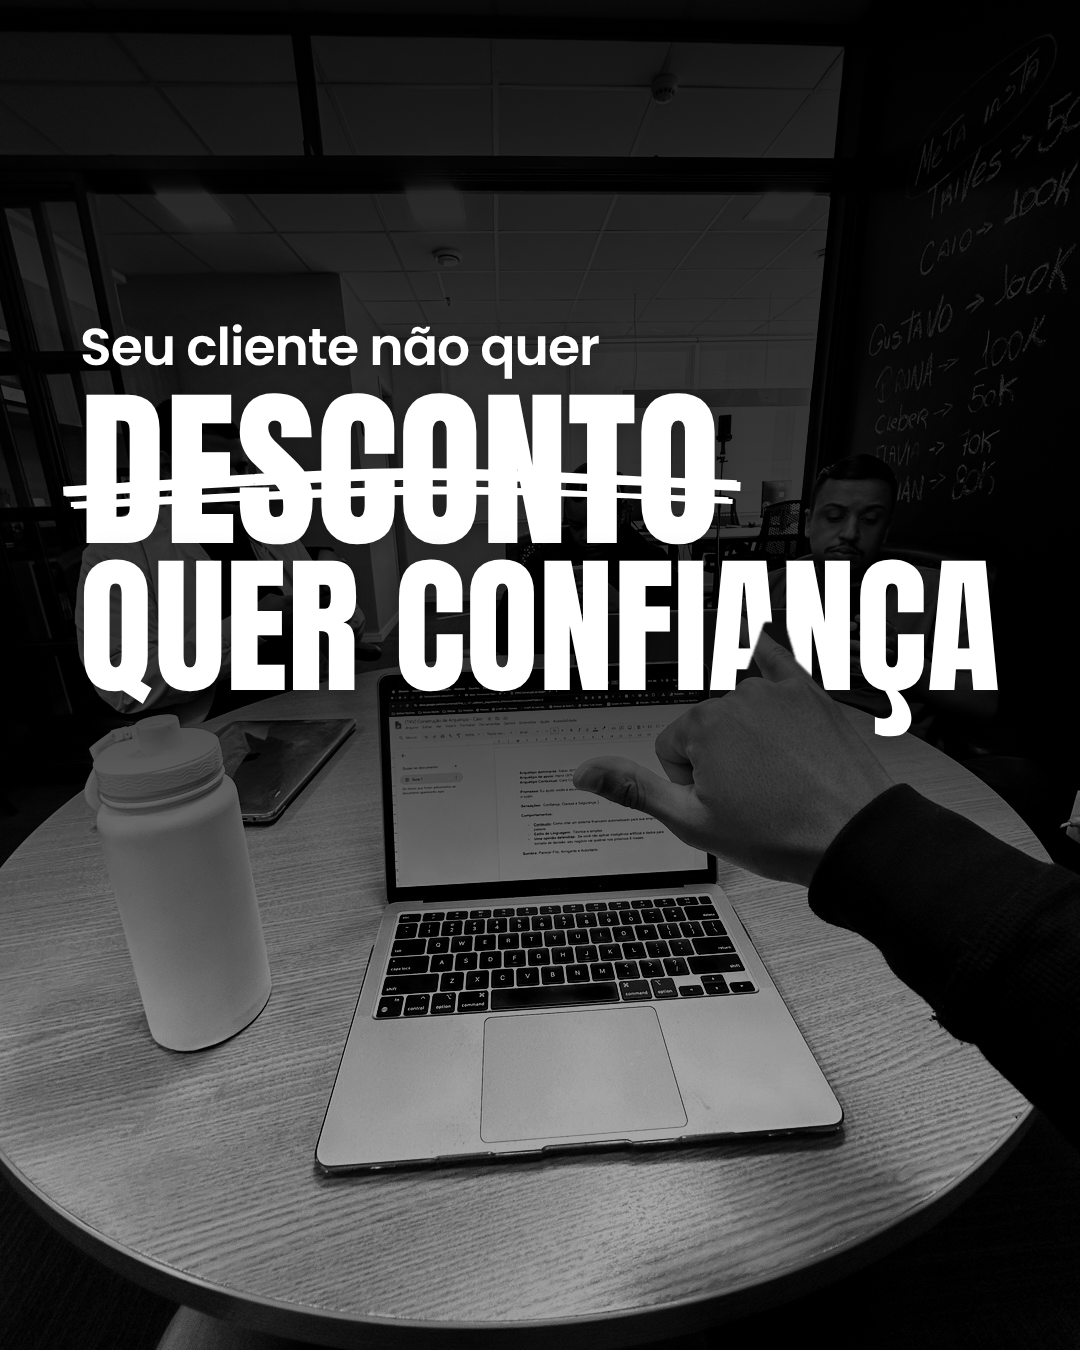
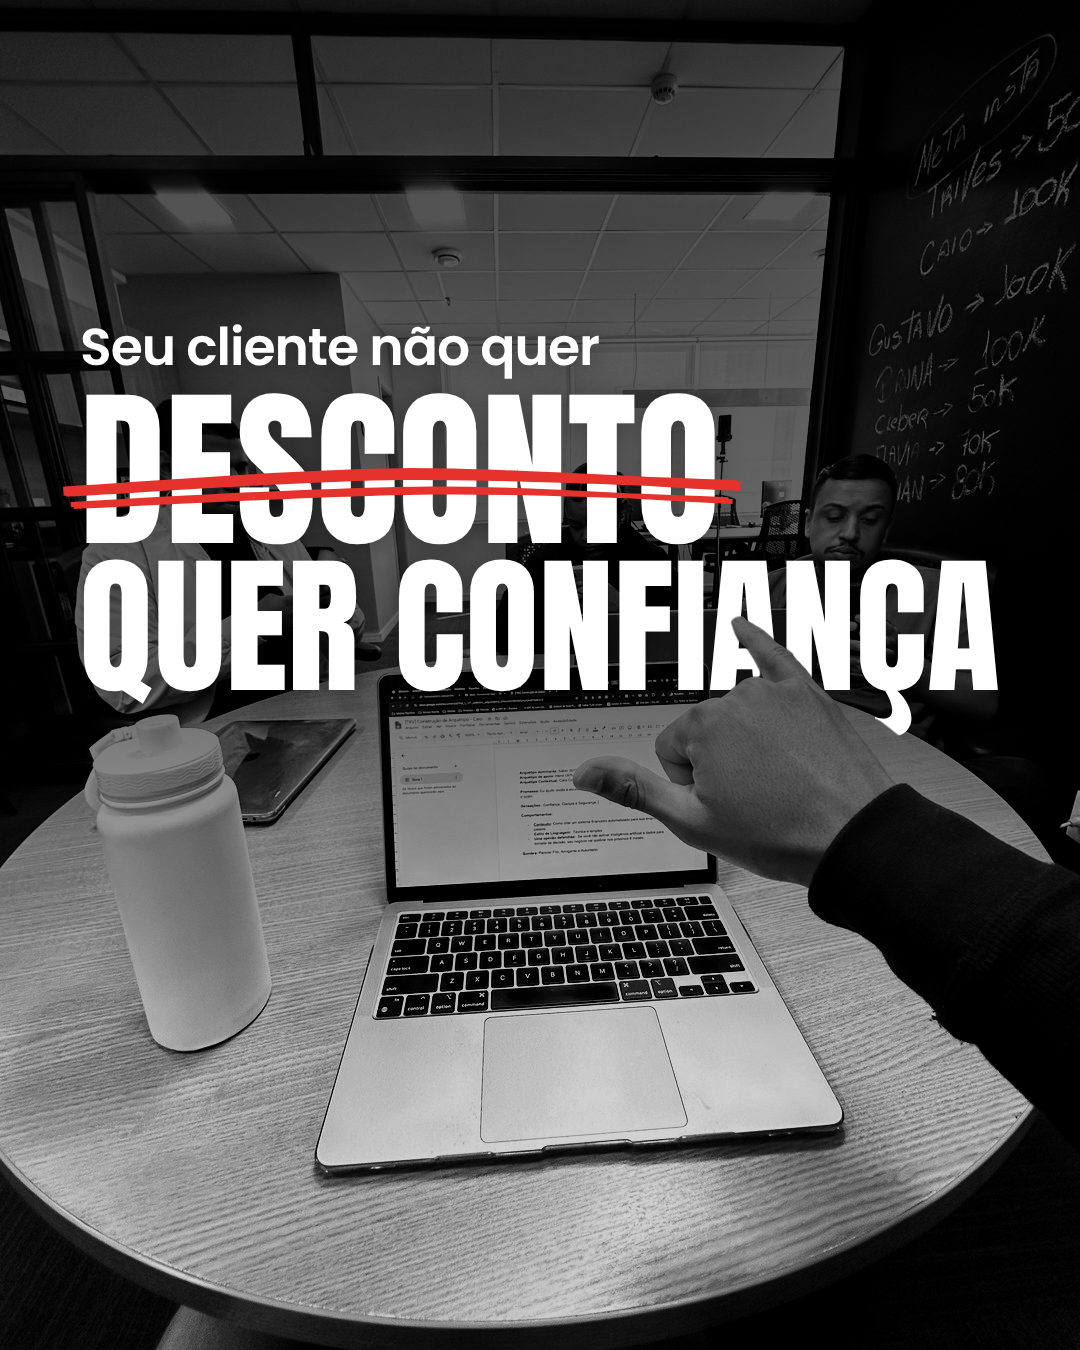
Capa 04-A: recorte em alta resolução (dedo nítido), risco vermelho, máscara mais leve
Claude-Session: https://claude.ai/code/session_01CR2zLXebwu2nvAjBiSDjK9

diff --git a/carrossel/capa-motor.html b/carrossel/capa-motor.html
@@ -121,15 +121,15 @@ window.loadCapa = async function(spec){
   // risco à mão
   els.forEach(({d,cfg,t},i)=>{ if(!cfg.strike) return; const r=d.getBoundingClientRect(); const fs=parseFloat(d.style.fontSize);
     const y=pos[i].base-fs*.36, rc=rough.svg(document.getElementById("sv")), sv=document.getElementById("sv");
-    sv.appendChild(rc.curve([[r.left-14,y+10],[r.left+r.width*.5,y-6],[r.right+18,y+4]],{stroke:"#fff",strokeWidth:9,roughness:1.4,seed:4}));
-    sv.appendChild(rc.curve([[r.left-6,y+26],[r.left+r.width*.55,y+10],[r.right+10,y+20]],{stroke:"#fff",strokeWidth:5,roughness:1.6,seed:9})); });
+    sv.appendChild(rc.curve([[r.left-14,y+10],[r.left+r.width*.5,y-6],[r.right+18,y+4]],{stroke:spec.cor_risco||"#fff",strokeWidth:9,roughness:1.4,seed:4}));
+    sv.appendChild(rc.curve([[r.left-6,y+26],[r.left+r.width*.55,y+10],[r.right+10,y+20]],{stroke:spec.cor_risco||"#fff",strokeWidth:5,roughness:1.6,seed:9})); });
   // FADE: degradê preto do topo até um pouco abaixo do título (também escurece o recorte da pessoa)
   if(spec.fade!==false){
     const tops=pos.filter(Boolean).map(p=>p.top), bots=pos.filter(Boolean).map(p=>p.bottom);
-    const fim=Math.min(1350, Math.max(...bots)+(spec.fade_extra??300)), meio=Math.max(...bots)-40, forca=spec.fade_forca??.82;
+    const fim=Math.min(1350, Math.max(...bots)+(spec.fade_extra??300)), meio=Math.max(...bots)-40, forca=spec.fade_forca??.66;
     const stops=[[0,forca],[Math.max(0,meio)/1350,forca*.72],[fim/1350,0]];
     const css=`linear-gradient(180deg,${stops.map(([p,a])=>`rgba(0,0,0,${a.toFixed(3)}) ${(p*100).toFixed(1)}%`).join(",")})`;
-    const mk=spec.mascara??.35;
+    const mk=spec.mascara??.18;
     document.getElementById("shade").style.background=`${css},linear-gradient(rgba(0,0,0,${mk}),rgba(0,0,0,${mk}))`;
     const pimg=document.getElementById("pessoa");
     if(pimg && pimg.isConnected && pimg.src){ await (pimg.decode?pimg.decode().catch(()=>0):0);

diff --git a/carrossel/recorte.py b/carrossel/recorte.py
@@ -22,7 +22,7 @@ Preto e branco com pretos profundos (rode DEPOIS do recorte; converte foto.jpg e
 
 Aceita .heic (iPhone) se `pillow-heif` estiver instalado (pip install pillow-heif).
 """
-import sys, numpy as np
+import sys, json, numpy as np
 from pathlib import Path
 from PIL import Image, ImageDraw, ImageFilter, ImageOps
 try:
@@ -43,6 +43,7 @@ def enquadrar(foto, pasta, y0=None):
     else:
         w = round(H * .8); x0 = (W - w) // 2; box = (x0, 0, x0 + w, H)
     im = src.crop(box).resize((1080, 1350), Image.LANCZOS); im.save(pasta / "foto.jpg", quality=93)
+    (pasta / "meta.json").write_text(json.dumps({"orig": str(Path(foto).resolve()), "box": list(box)}))
     g = im.copy(); d = ImageDraw.Draw(g)
     for x in range(0, 1080, 100): d.line([(x, 0), (x, 1350)], fill=(255, 0, 0), width=2); d.text((x + 4, 4), str(x), fill=(255, 0, 0))
     for y in range(0, 1350, 100): d.line([(0, y), (1080, y)], fill=(255, 0, 0), width=2); d.text((4, y + 4), str(y), fill=(255, 0, 0))
@@ -50,31 +51,45 @@ def enquadrar(foto, pasta, y0=None):
     print(f"ok → {pasta}/foto.jpg e {pasta}/grade.jpg (grade reduzida pela metade: multiplique as leituras por 2)")
 
 def pessoa(pasta, pontos, ate=800, modo="cor"):
+    """Recorte em alta resolução (foto original) e reduzido no fim → bordas nítidas."""
     pasta = Path(pasta); im = Image.open(pasta / "foto.jpg").convert("RGB")
-    poly = [tuple(map(float, p.split(","))) for p in pontos.split()]
-    P = Image.new("L", im.size, 0); ImageDraw.Draw(P).polygon(poly, fill=255); P = np.asarray(P) > 0
-    h, s, v = hsv(im); yy = np.arange(im.size[1])[:, None] * np.ones((1, im.size[0]))
+    k, hi = 1.0, im
+    meta = pasta / "meta.json"
+    if meta.exists():
+        m_ = json.loads(meta.read_text())
+        try:
+            hi = ImageOps.exif_transpose(Image.open(m_["orig"])).convert("RGB").crop(tuple(m_["box"])); k = hi.size[0] / 1080
+        except Exception:
+            hi, k = im, 1.0
+    poly = [tuple(float(c) * k for c in p.split(",")) for p in pontos.split()]
+    P = Image.new("L", hi.size, 0); ImageDraw.Draw(P).polygon(poly, fill=255); P = np.asarray(P) > 0
+    h, s, v = hsv(hi); yy = np.arange(hi.size[1])[:, None] * np.ones((1, hi.size[0])); A = ate * k
+    def fechar(b, r=21):
+        r = int(r * k) | 1
+        x = Image.fromarray((b * 255).astype(np.uint8)).filter(ImageFilter.MaxFilter(r)).filter(ImageFilter.MinFilter(r))
+        return np.asarray(x) > 127
+    def abrir(b, r=3):
+        r = int(r * k) | 1
+        x = Image.fromarray((b * 255).astype(np.uint8)).filter(ImageFilter.MinFilter(r)).filter(ImageFilter.MaxFilter(r))
+        return np.asarray(x) > 127
     ceu = (h > 195) & (h < 235) & (s > .35)
-    folha = (h > 55) & (h < 125) & (s > .45) & (v > .42)
-    telhado = (h > 100) & (h < 170) & (s > .25)
-    neblina = (v > .60) & (s < .42) & (yy < ate)
-    def fechar(b, k=21):
-        im = Image.fromarray((b * 255).astype(np.uint8)).filter(ImageFilter.MaxFilter(k)).filter(ImageFilter.MinFilter(k))
-        return np.asarray(im) > 127
     if modo == "poligono": m = P
-    elif modo == "escuro": m = P & (fechar(v < .42, 45) | (yy >= ate))
+    elif modo == "escuro": m = P & (fechar(v < .42, 45) | (yy >= A))
     elif modo == "pele":
-        manga = mangay if (mangay := globals().get("MANGA_Y")) else ate
-        pele = ((h < 50) & (s > .18) & (v > .22)) | ((v < .30) & (yy >= manga))
-        m = P & (fechar(pele, 15) | (yy >= ate))
-    else: m = P & ~ceu & ~((folha | telhado | neblina) & (yy < ate))
-    mi = Image.fromarray((m * 255).astype(np.uint8)).filter(ImageFilter.MedianFilter(5))
-    mi = mi.filter(ImageFilter.MaxFilter(3)).filter(ImageFilter.MinFilter(3)).filter(ImageFilter.GaussianBlur(1))
+        manga = globals().get("MANGA_Y") or ate
+        pele = ((h < 50) & (s > .15) & (v > .42)) | ((v < .30) & (yy >= manga * k))
+        m = P & (fechar(abrir(pele, 3), 5) | (yy >= A))
+    else:
+        folha = (h > 55) & (h < 125) & (s > .45) & (v > .42); telhado = (h > 100) & (h < 170) & (s > .25)
+        neblina = (v > .60) & (s < .42) & (yy < A)
+        m = P & ~ceu & ~((folha | telhado | neblina) & (yy < A))
+    mi = Image.fromarray((m * 255).astype(np.uint8)).filter(ImageFilter.MedianFilter(int(3 * k) | 1))
+    mi = mi.filter(ImageFilter.GaussianBlur(.6 * k)).resize(im.size, Image.LANCZOS)   # borda nítida e suave
     rgba = im.convert("RGBA"); rgba.putalpha(mi); rgba.save(pasta / "pessoa.png")
-    xs = [p[0] for p in poly]; ys = [p[1] for p in poly]
+    xs = [p[0] / k for p in poly]; ys = [p[1] / k for p in poly]
     box = (max(0, int(min(xs)) - 30), max(0, int(min(ys)) - 30), min(1080, int(max(xs)) + 30), min(int(ate) + 40, 1350))
     bg = Image.new("RGBA", im.size, (255, 0, 200, 255)); bg.alpha_composite(rgba)
-    prev = bg.convert("RGB").crop(box); prev.thumbnail((500, 500)); prev.save(pasta / "previa-recorte.jpg", quality=80)
+    prev = bg.convert("RGB").crop(box); prev.thumbnail((500, 500)); prev.save(pasta / "previa-recorte.jpg", quality=85)
     print(f"ok → {pasta}/pessoa.png  (confira {pasta}/previa-recorte.jpg)")
 
 def ceu(pasta):

diff --git a/.claude/skills/carrossel/SKILL.md b/.claude/skills/carrossel/SKILL.md
@@ -26,7 +26,7 @@ Objetivo: máxima qualidade com o mínimo de tokens. **Não leia** `index.html`,
 - Fontes: Poppins (texto), Anton/Archivo (capa), Caveat (letra de mão). Margens 128 px laterais / 150 px vertical (automático).
 - Capa: foto colorida, **título grande**, pessoa recortada na frente da última linha, margem 80 px.
   Linhas encaixam sozinhas pela forma real das letras (acentos incluídos, sem encostar); se um acento bater, a linha de cima desliza até 90 px p/ a direita (`"encaixe": false` desliga).
-  Legibilidade: máscara preta em toda a foto (`mascara`, padrão 0.35) + fade preto do topo até abaixo do título (`fade_forca` 0.82, `fade_extra` 300 px; `"fade": false` desliga). O recorte recebe o mesmo escurecimento.
+  Legibilidade: máscara preta em toda a foto (`mascara`, padrão 0.18) + fade preto do topo até abaixo do título (`fade_forca` 0.66, `fade_extra` 300 px; `"fade": false` desliga). O recorte recebe o mesmo escurecimento.
   `espaco` (opcional, padrão 1) multiplica o espaço entre as linhas do título: 0.5 = mais junto, 1.5 = mais solto.
   Layouts: `riscado` (3 linhas: pequena · palavra riscada · gigante) · `padrao` (4: pequena espaçada · média · selo · gigante) · `dois-pesos` (3: pequena · fina · pesada) · `serifa` (3: pequena · itálico serifado · condensada).
 - Slide de conteúdo = título + subtítulo (1 linha) + 1 frase curta com `[[círculo]]`/`{{sublinhado}}` + desenho + **Na prática** (`exemplo`, 1–2 linhas, situação real) + **gancho** (1 linha, sem ponto final, abre curiosidade p/ o próximo).
